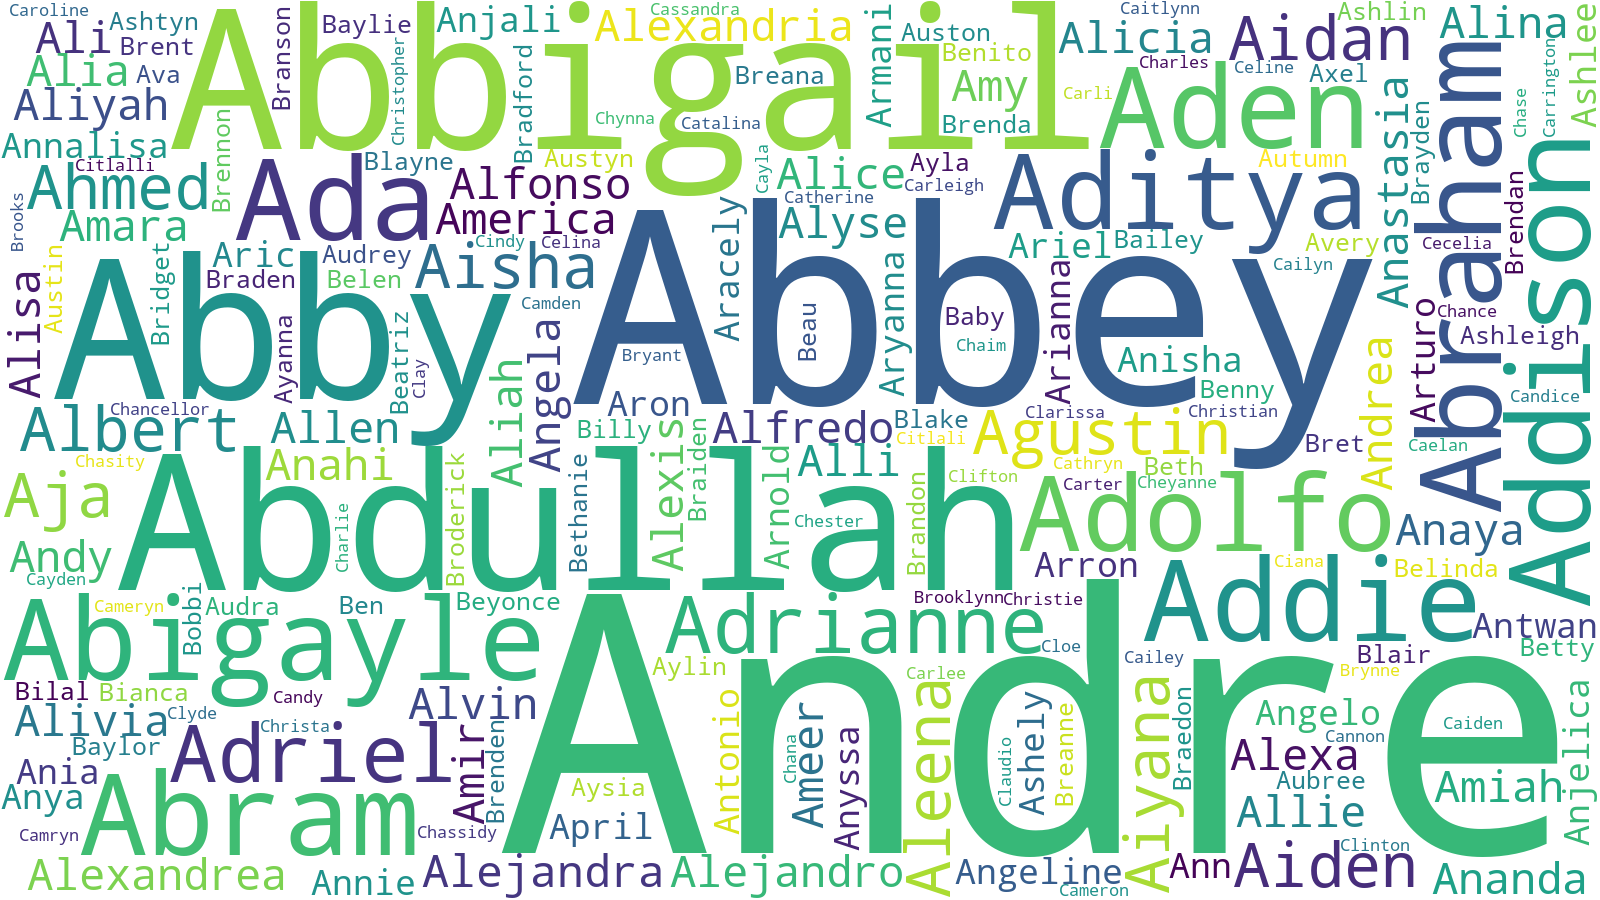
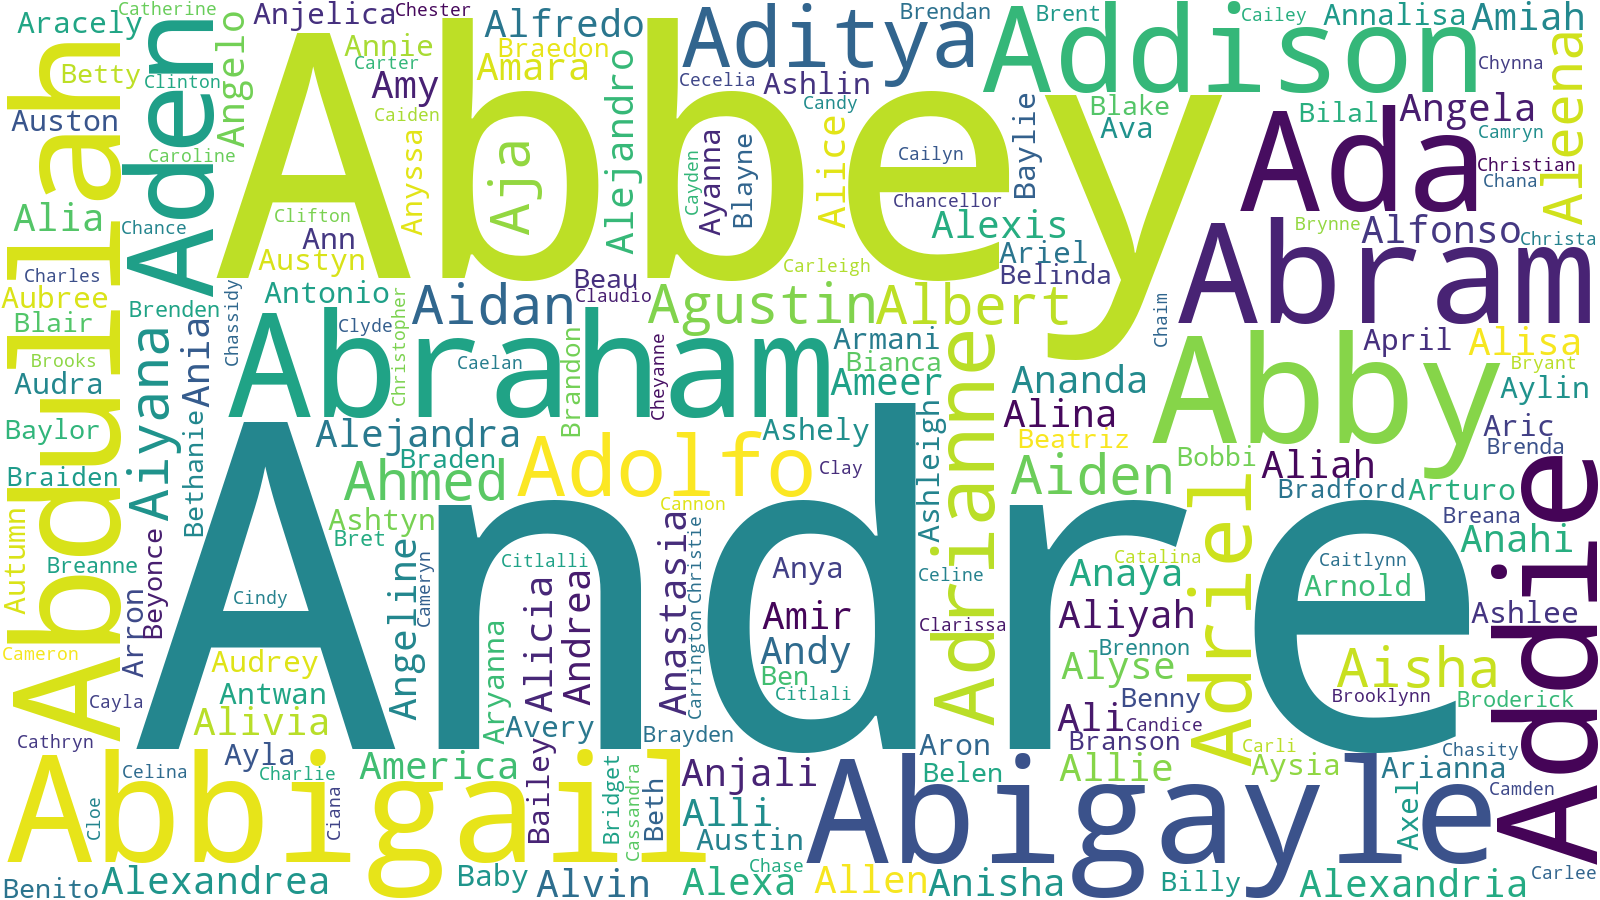
1

diff --git a/README_Project1.md b/README_Project1.md
@@ -1,0 +1,58 @@
+# Project 1 - Name Analytics
+
+Project&nbsp;1 processes the raw `Navneliste.txt` roster and produces both tabular summaries and visual artefacts that describe the collection of names. It normalises the source data, computes statistics, and exports plots that make it easier to reason about trends such as popular initials or name lengths.
+
+## Key Features
+- Cleans comma-separated name entries and returns a consistently formatted list.
+- Sorts names with optional case-insensitive ordering.
+- Computes descriptive statistics (min/max/mean/percentiles) for name lengths.
+- Reports high-frequency initials, endings, and individual letters.
+- Builds a `pandas.DataFrame` with derived columns for length and vowel flags.
+- Generates plots (histogram, bar chart, heatmap) and a word cloud via Matplotlib/Seaborn/WordCloud.
+
+## Prerequisites
+- Python 3.9+
+- Dependencies listed in `requirements.txt` (pandas, numpy, matplotlib, seaborn, wordcloud).
+- Source file `Navneliste.txt` placed alongside `Project1.py`.
+
+Install requirements into your virtual environment:
+
+```bash
+python -m venv .venv
+.venv\Scripts\activate
+pip install -r requirements.txt
+```
+
+## Running the Script
+Execute the analytics pipeline directly:
+
+```bash
+python Project1.py
+```
+
+The script will:
+1. Read and normalise names from `Navneliste.txt`.
+2. Print the sorted roster to stdout.
+3. Output headline statistics (counts, length distribution, frequent initials/letters).
+4. Generate visualisations saved under `Data/analysis/` (histogram, bar chart, heatmap, word cloud).
+
+## Outputs
+- Console summary with total names, unique names, and aggregated metrics.
+- Image files in `Data/analysis/`:
+  - `length_distribution.png`
+  - `initial_letter_frequency.png`
+  - `initial_by_length_heatmap.png`
+  - `name_wordcloud.png`
+
+## Customisation
+- Pass a different roster filename to `read_names()` if needed.
+- Adjust `top_n` when calling `analyse_names()` to change the number of popular items reported.
+- Provide a custom `output_dir` to redirect generated images.
+
+## Troubleshooting
+- **Missing file**: Ensure `Navneliste.txt` exists; the script raises `FileNotFoundError` otherwise.
+- **Encoding issues**: The reader expects UTF-8 input; re-save the source file using UTF-8 if you encounter decode errors.
+- **Large datasets**: Pandas handles sizable lists well, but you can trim the input file to focus on a subset for faster experimentation.
+
+## Testing
+No automated tests are bundled. To validate manually, run `python Project1.py` and inspect both the console output and the generated artefacts.
